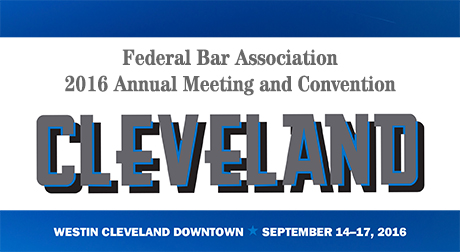
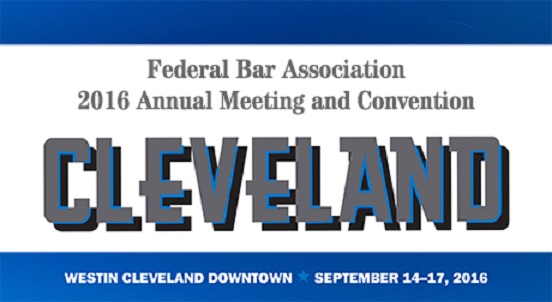
update all images

diff --git a/unit_3/index.html b/unit_3/index.html
@@ -43,10 +43,10 @@
 
 	<div id="first">
 			<a href="http://www.fedbar.org/FBACon16">
-			<img class="img-carousel" src="images/cleveland2016.jpg" alt="annual meeting 2016">
+			<img class="img-carousel" src="images/cleveland2016" alt="annual meeting 2016">
 			</a>
 
-			<img class="placeholder" src="images/login_placeholder.jpg">
+			<img class="placeholder" src="images/placeholder.jpg">
 	</div>
 
 	<div>

diff --git a/unit_3/css/style.css b/unit_3/css/style.css
@@ -76,7 +76,7 @@ ul.headnav li a: hover {
 #first {
 	background-color: #f2f2f2;
 	width: 100%;
-	height: 325px;
+	height: 345px;
 }
 
 .img-carousel {
